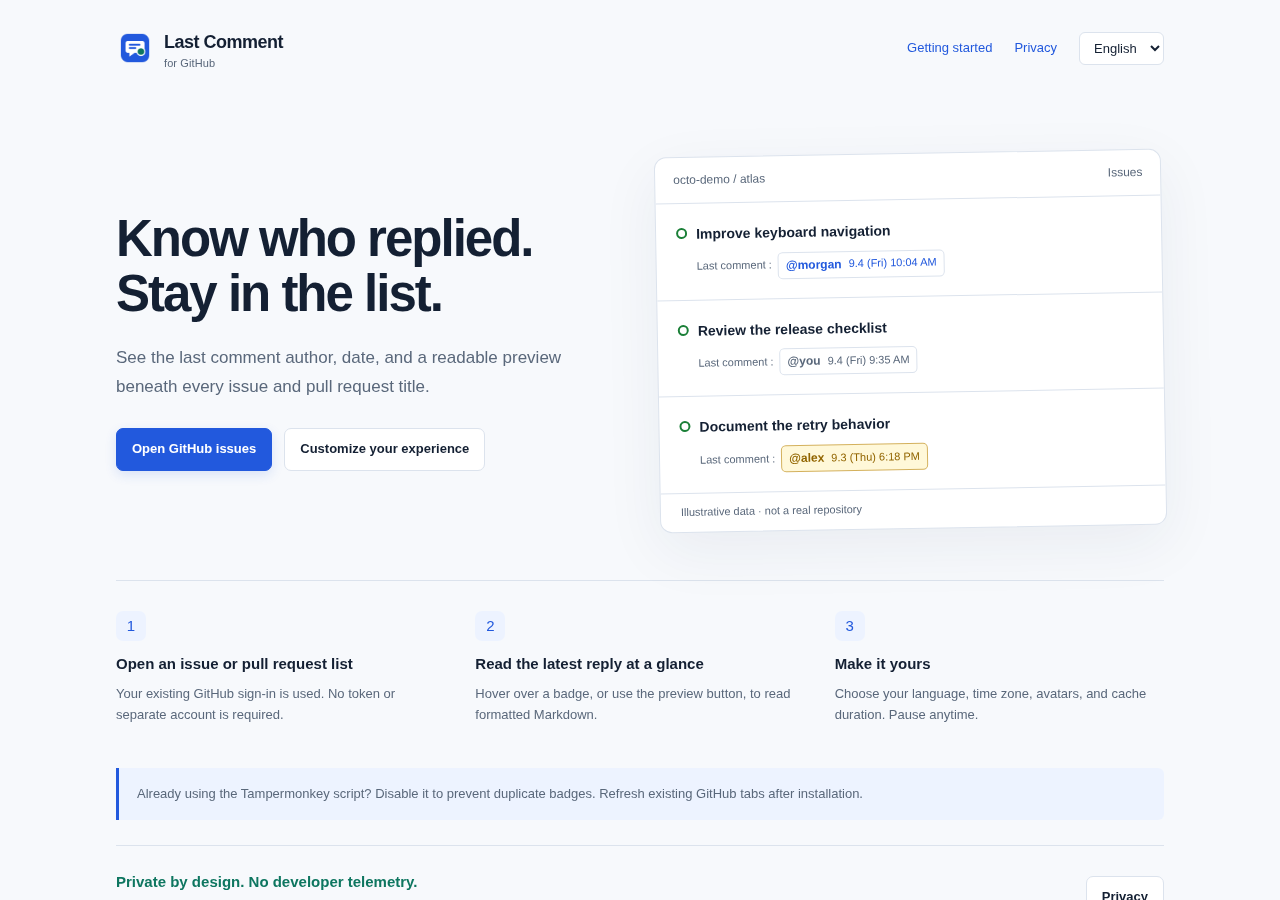
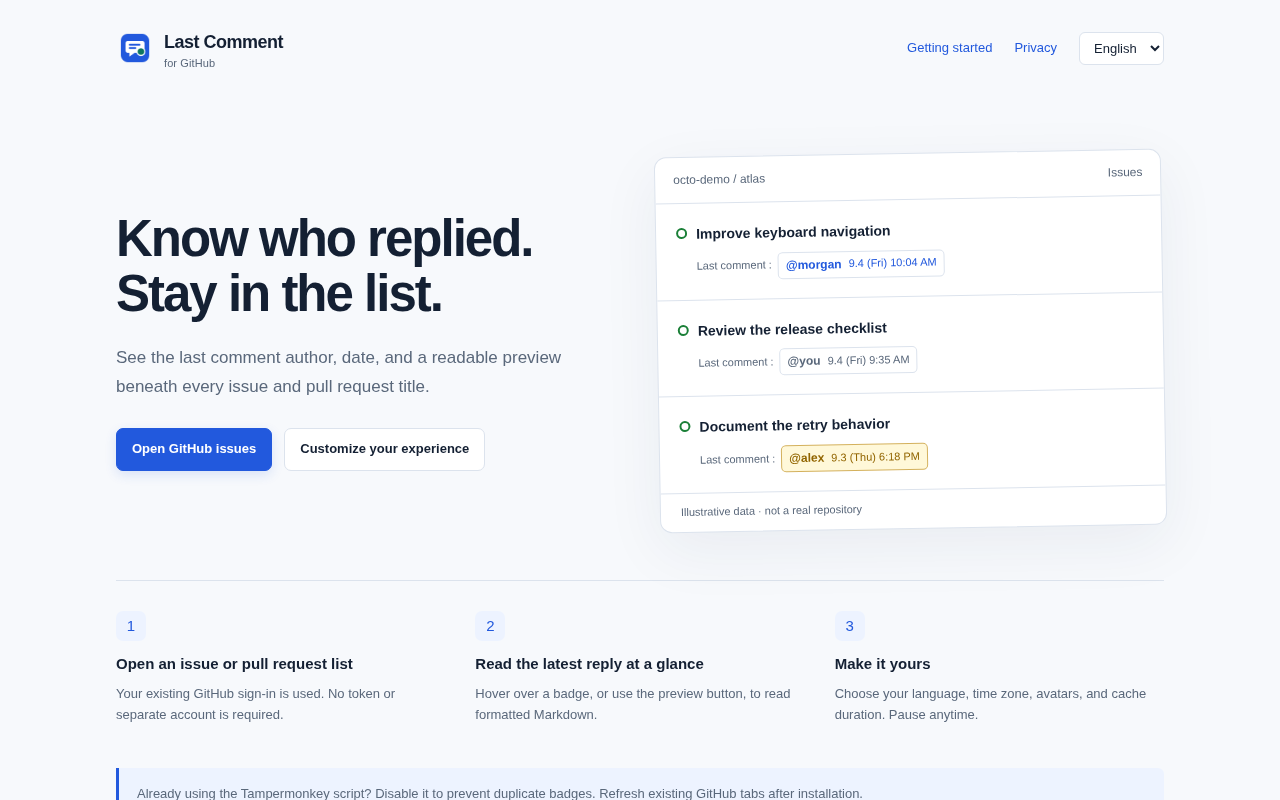
fix: preserve zip paths in packaging, add promo tile, fix screenshot size, validate store assets

diff --git a/store/assets/README.md b/store/assets/README.md
@@ -9,6 +9,7 @@ All screenshots use English guidance and illustrative data. No private repositor
 | `03-hover-preview-store.png` | Hover preview state. |
 | `04-english-default-store.png` | English-by-default message with Korean available in Settings. |
 | `05-privacy-controls.png` | Local-only statistics controls, disabled by default. |
+| `promo-small-440x280.png` | Small promo tile: icon, name, and tagline on dark background. |
 
 Required Chrome Web Store image sizes:
 
